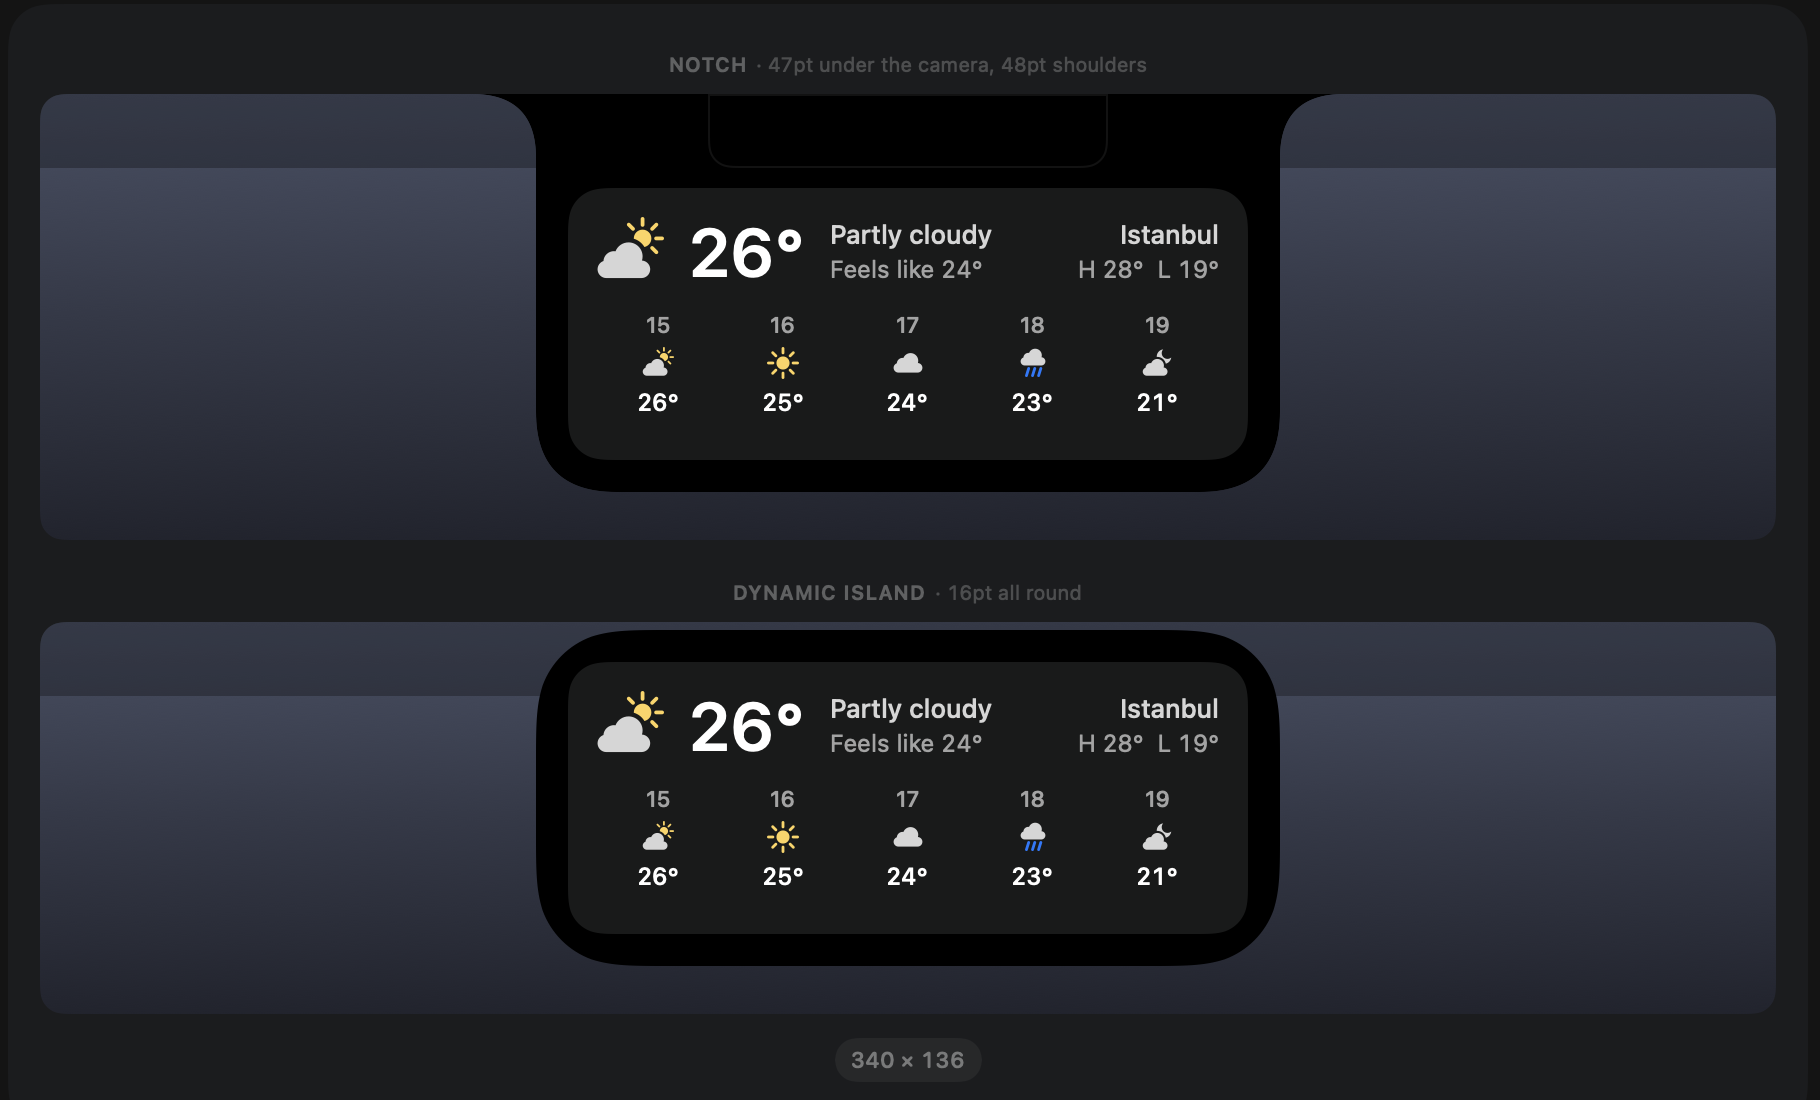
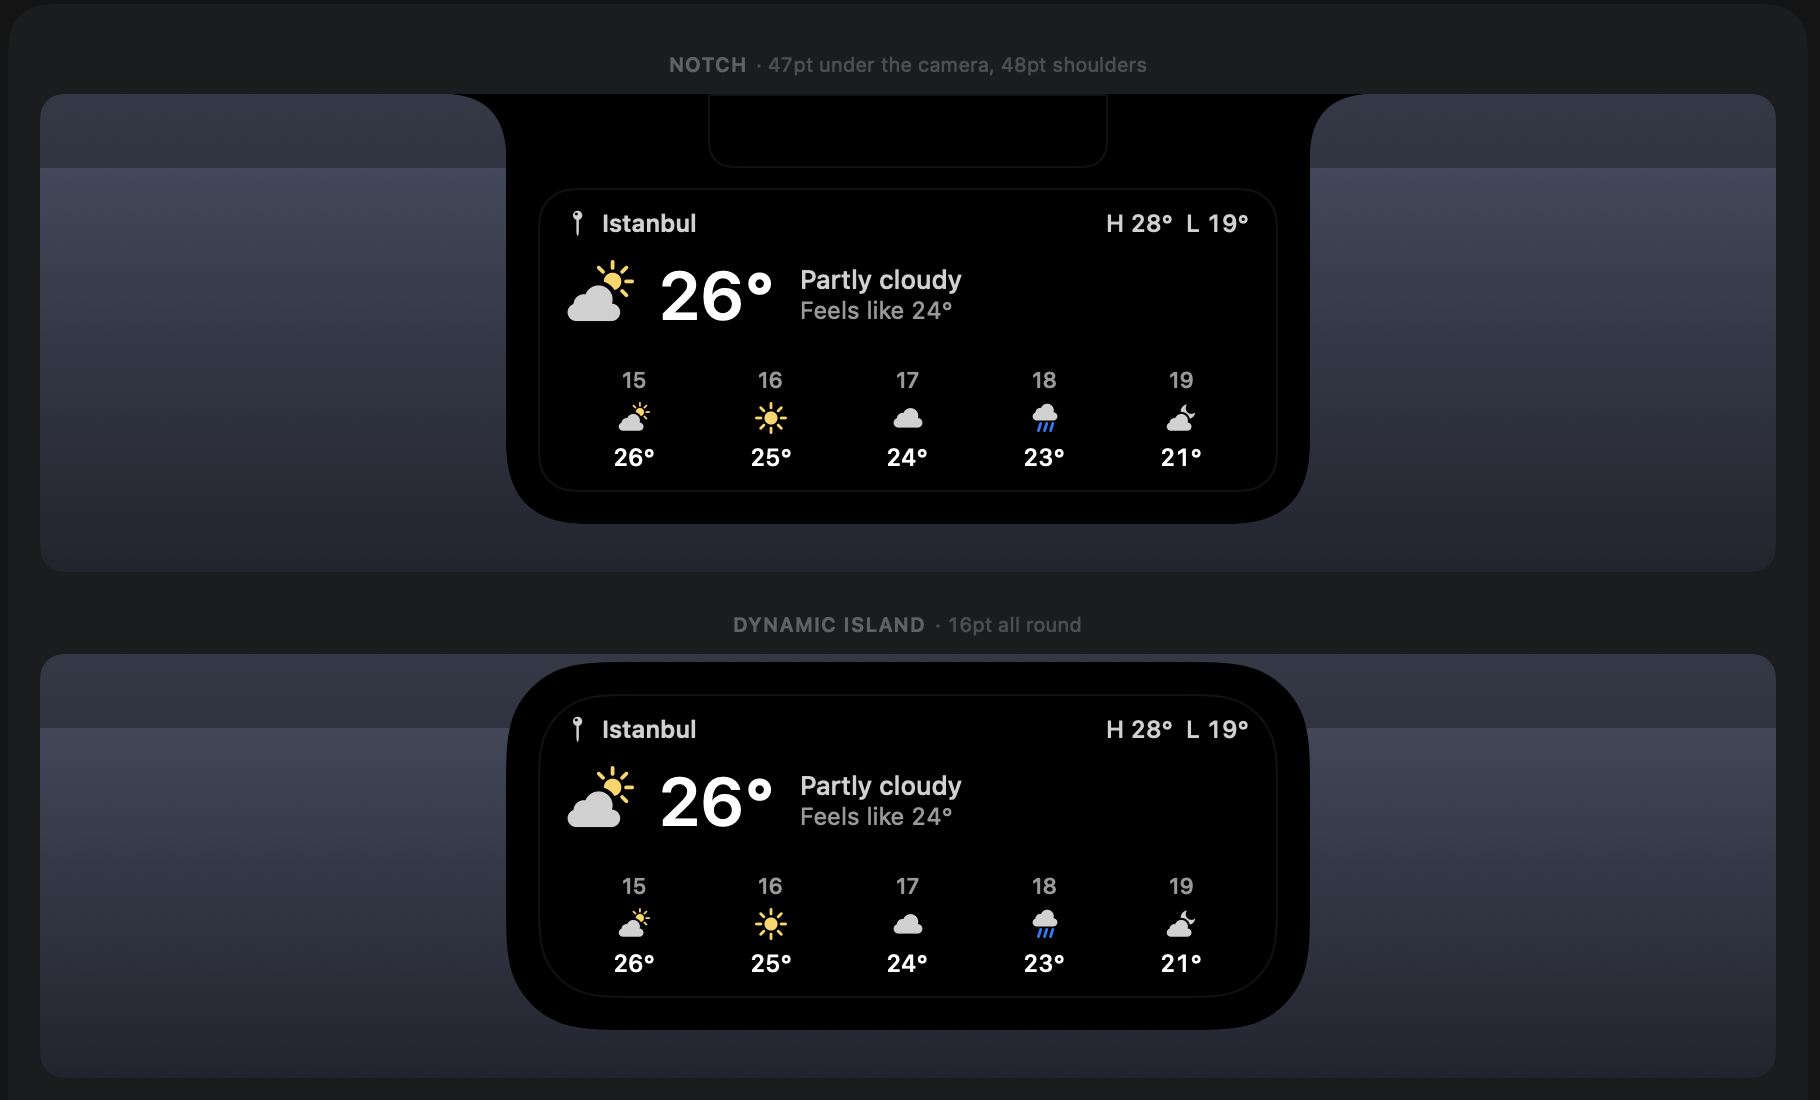
Lay the shelf widget out the way Droppy's own are
DroppyKit 1.4 writes down the layout Droppy's widgets share, and the host
stretches a solo card declared narrower than 352 points on a notch and 370
as an island. The widget now declares 370 by 152, opens with the header row
every Droppy widget has (a pin and the city, today's high and low trailing),
keeps its gaps to the spacing tokens, and beside another widget ends in two
rows with the label leading and the number trailing.

The SDK and the package pin move to 1.4.1; no API the droplet calls changed,
so kit.minAPI stays 1.1.0. The version is 1.0.1.

Changed region(s): [[0.0, 0.5255, 0.9846, 0.9891], [0.2462, 0.0618, 0.7385, 0.4945]]

diff --git a/Sources/OriWeather/Shelf.swift b/Sources/OriWeather/Shelf.swift
@@ -65,16 +65,44 @@ struct WeatherWidget: View {
     }
 }
 
-/// Alone on the shelf: the reading across the top (the mark and the degrees
-/// large, the condition and what it feels like beside them, the city and
-/// today's high and low on the right) and the hours ahead under it. No age on
-/// a fresh reading; a stale one says its age where the condition was.
+/// The header every Droppy widget opens with: a 12 pt symbol and a 12 pt
+/// title in the secondary white, here the city, with today's high and low as
+/// the trailing number when there is room for them.
+private struct WeatherHeader: View {
+    let glance: Glance
+    let showsHighLow: Bool
+    @Environment(\.weatherInk) private var ink
+
+    var body: some View {
+        HStack(spacing: DroppySpacing.xsm) {
+            Image(systemName: "mappin")
+                .font(.system(size: DroppyLiveActivityMetrics.labelFontSize, weight: .medium))
+                .accessibilityHidden(true)
+            Text(verbatim: glance.city.name)
+                .font(.system(size: DroppyLiveActivityMetrics.labelFontSize, weight: .semibold))
+            Spacer(minLength: DroppySpacing.md)
+            if showsHighLow, let highLow = glance.highLow {
+                Text(verbatim: highLow)
+                    .font(.system(size: DroppyLiveActivityMetrics.labelFontSize, weight: .medium))
+                    .monospacedDigit()
+            }
+        }
+        .lineLimit(1)
+        .foregroundStyle(ink.secondary)
+    }
+}
+
+/// Alone on the shelf: the header, the reading (the mark and the degrees
+/// large, the condition and what it feels like beside them) and the hours
+/// ahead under it. A fresh reading carries no age; a stale one says its age
+/// where the condition was.
 private struct SoloWeather: View {
     let glance: Glance
     @Environment(\.weatherInk) private var ink
 
     var body: some View {
-        VStack(alignment: .leading, spacing: DroppySpacing.smd) {
+        VStack(alignment: .leading, spacing: DroppySpacing.sm) {
+            WeatherHeader(glance: glance, showsHighLow: true)
             HStack(alignment: .center, spacing: DroppySpacing.md) {
                 WeatherMark(code: glance.reading.code, isDay: glance.reading.isDay)
                     .frame(width: Look.shelfMark, height: Look.shelfMark)
@@ -84,7 +112,7 @@ private struct SoloWeather: View {
                     .monospacedDigit()
                     .foregroundStyle(ink.primary)
                     .fixedSize()
-                VStack(alignment: .leading, spacing: DroppySpacing.xs / 2) {
+                VStack(alignment: .leading, spacing: 0) {
                     Text(verbatim: glance.detail)
                         .font(.system(size: Look.shelfLabel, weight: .medium))
                         .foregroundStyle(ink.secondary)
@@ -93,25 +121,13 @@ private struct SoloWeather: View {
                         .monospacedDigit()
                         .foregroundStyle(ink.tertiary)
                 }
-                .layoutPriority(1)
-                Spacer(minLength: DroppySpacing.sm)
-                VStack(alignment: .trailing, spacing: DroppySpacing.xs / 2) {
-                    Text(verbatim: glance.city.name)
-                        .font(.system(size: Look.shelfLabel, weight: .medium))
-                        .foregroundStyle(ink.secondary)
-                    if let highLow = glance.highLow {
-                        Text(verbatim: highLow)
-                            .font(.system(size: DroppyLiveActivityMetrics.labelFontSize))
-                            .monospacedDigit()
-                            .foregroundStyle(ink.tertiary)
-                    }
-                }
+                .lineLimit(1)
+                Spacer(minLength: 0)
             }
-            .lineLimit(1)
             if !glance.hours.isEmpty {
+                Spacer(minLength: 0)
                 HourStrip(hours: glance.hours)
             }
-            Spacer(minLength: 0)
         }
         .opacity(glance.isStale ? Look.staleOpacity : 1)
         .accessibilityElement(children: .combine)
@@ -145,15 +161,17 @@ private struct HourStrip: View {
     }
 }
 
-/// Beside another widget: the mark and the degrees, the condition under them,
-/// and at the foot the city and today's high and low when the slot is tall
-/// enough for them.
+/// Beside another widget: the header, the mark and the degrees, the
+/// condition, and two rows with the label leading and the number trailing:
+/// what it feels like, and today's high and low.
 private struct PairedWeather: View {
     let glance: Glance
     @Environment(\.weatherInk) private var ink
 
     var body: some View {
         VStack(alignment: .leading, spacing: DroppySpacing.xs) {
+            WeatherHeader(glance: glance, showsHighLow: false)
+                .padding(.bottom, DroppySpacing.xs)
             HStack(spacing: DroppySpacing.sm) {
                 WeatherMark(code: glance.reading.code, isDay: glance.reading.isDay)
                     .frame(width: Look.pairedMark, height: Look.pairedMark)
@@ -167,23 +185,25 @@ private struct PairedWeather: View {
                 .font(.system(size: DroppyLiveActivityMetrics.labelFontSize, weight: .medium))
                 .foregroundStyle(ink.secondary)
             Spacer(minLength: 0)
-            ViewThatFits(in: .vertical) {
-                VStack(alignment: .leading, spacing: DroppySpacing.xs / 2) {
-                    Text(verbatim: glance.city.name)
-                        .font(.system(size: DroppyLiveActivityMetrics.labelFontSize, weight: .medium))
-                        .foregroundStyle(ink.secondary)
-                    if let highLow = glance.highLow {
-                        Text(verbatim: highLow)
-                            .font(.system(size: DroppyLiveActivityMetrics.labelFontSize))
-                            .monospacedDigit()
-                            .foregroundStyle(ink.tertiary)
-                    }
-                }
-                EmptyView()
+            row("Feels like", glance.feelsLike)
+            if let high = glance.high, let low = glance.low {
+                row("High / low", "\(high) / \(low)")
             }
         }
         .lineLimit(1)
         .opacity(glance.isStale ? Look.staleOpacity : 1)
         .accessibilityElement(children: .combine)
+    }
+
+    private func row(_ label: String, _ value: String) -> some View {
+        HStack {
+            Text(verbatim: label)
+                .foregroundStyle(ink.tertiary)
+            Spacer(minLength: DroppySpacing.md)
+            Text(verbatim: value)
+                .monospacedDigit()
+                .foregroundStyle(ink.primary)
+        }
+        .font(.system(size: DroppyLiveActivityMetrics.labelFontSize, weight: .medium))
     }
 }

diff --git a/Tests/OriWeatherTests/DropletTests.swift b/Tests/OriWeatherTests/DropletTests.swift
@@ -232,6 +232,18 @@ final class ShelfClockTests: XCTestCase {
         droplet.deactivate()
     }
 
+    /// Droppy never hands a solo card less than its floor (352 on a notch,
+    /// 370 as an island), and a narrower declaration is stretched to it; the
+    /// widget declares at least the floor and a height inside the host's range.
+    func testTheWidgetDeclaresNumbersTheHostHonours() throws {
+        let traits = OriWeatherDroplet().widgetDescriptors[0].layoutTraits
+        let solo = try XCTUnwrap(traits.preferredSoloWidth)
+        XCTAssertGreaterThanOrEqual(solo, DroppyShellMetrics.shelfMinimumSoloCardWidth(usesNotchStyle: true))
+        XCTAssertGreaterThanOrEqual(solo, DroppyShellMetrics.shelfMinimumSoloCardWidth(usesNotchStyle: false))
+        guard case .fixed(let height) = traits.contentHeight else { return XCTFail("the height is fixed") }
+        XCTAssertTrue(DroppyShellMetrics.shelfWidgetFixedContentHeightRange.contains(height))
+    }
+
     func testTheWidgetDeclaresBothWidthsAndTheIdThePillOpens() {
         let droplet = OriWeatherDroplet()
         let descriptor = droplet.widgetDescriptors[0]

diff --git a/Sources/OriWeather/Look.swift b/Sources/OriWeather/Look.swift
@@ -29,10 +29,13 @@ enum Look {
 
     /// The widget's two widths. Both are required: the host refuses a
     /// descriptor that leaves either to a fallback.
-    static let shelfSoloWidth: CGFloat = 340
+    /// The solo width is the floor Droppy 15.3 hands a solo card as an island
+    /// (352 on a notch), so the widget is laid out at the width it gets.
+    static let shelfSoloWidth: CGFloat = 370
     static let shelfPairedWidth: CGFloat = 170
-    /// The widget's height: the reading and, under it, the hours ahead.
-    static let shelfHeight: CGFloat = 136
+    /// The widget's height: the header, the reading and the hours ahead,
+    /// and nothing more.
+    static let shelfHeight: CGFloat = 152
     /// Alone on the shelf: the mark and the degrees large enough to read
     /// from across the desk.
     static let shelfMark: CGFloat = 34

diff --git a/Sources/OriWeather/OriWeatherDroplet.swift b/Sources/OriWeather/OriWeatherDroplet.swift
@@ -33,6 +33,10 @@ struct Glance: Equatable {
     var condition: String { reading.condition }
     /// The condition, or how old the reading is once it has stopped arriving.
     var detail: String { isStale ? Ago.words(reading.at, at: now) : reading.condition }
+    /// Today's high and low on their own, where the reading carried them.
+    var high: String? { reading.high.map { WeatherReading.figure($0, in: unit) } }
+    var low: String? { reading.low.map { WeatherReading.figure($0, in: unit) } }
+
     /// Today's high and low, "H 28°  L 19°", where the reading carried them.
     var highLow: String? {
         guard let high = reading.high, let low = reading.low else { return nil }

diff --git a/docs/notes.md b/docs/notes.md
@@ -346,3 +346,34 @@ condition, and the city with the high and low at the foot. It is 136 tall now.
 
 The maker is "Ori by realmeric" and the name is "OriWeather", one word, the
 way every Ori droplet is named.
+
+## DroppyKit 1.4.1, and the widget laid out like Droppy's (2026-09-11)
+
+DroppyKit went from 1.2.1 to 1.4.1 with the same ABI and the same Droppy 15.3,
+and no API this droplet calls changed, so `kit.minAPI` stays 1.1.0. What
+changed is what the host and the guides say about widgets. Since 1.3.0 the
+host honours a fixed height (48 to 480) and never hands a solo card less than
+352 points on a notch or 370 as an island, stretching anything declared
+narrower; since 1.3.1 it paints nothing behind a widget; 1.4.0 writes down the
+layout every Droppy widget shares: fill the rectangle, one 14 point padding,
+leading text and trailing numbers, a header row of a 12 point symbol and a 12
+point title in the secondary white, spacing only in the tokens, no unused
+space. The widget declared 340 wide, had no header and two 2 point gaps. It now
+declares 370 by 152, opens with a pin and the city (today's high and low
+trailing, alone), and beside another widget ends in two label-and-number rows,
+"Feels like" and "High / low". The SDK checkout was on the v1.2.1 tag, so
+`droppykit update`'s fast-forward pull could not run; the checkout was moved to
+the v1.4.1 tag and the package pin with `swift package update droppykit`.
+
+`make energy` after it did not pass, and did not show a regression either.
+Three runs with Meric at the keyboard: one with the machine 21% busy and the
+seat flipping three times (caps lock, the pointer), one with 22%, and one
+quiet run where CPU was the same with and without the droplet (0.412% against
+0.410%) and wakeups rose by 0.7 a second seated and 1.0 unseated, where the
+unseated run starts no timer at all. Today's quiet baselines alone have ranged
+from 0.67 to 2.1 wakeups a second, and the Playground had moved to 1.0.12.
+Nothing that runs while the weather is on the wings changed in this round.
+It is written down as unproven, to be measured again on an idle Mac.
+
+The version is 1.0.1: the Store compares versions to decide who needs an
+update, and the guide says to raise it on every submission.

diff --git a/docs/energy/2026-09-11.md b/docs/energy/2026-09-11.md
@@ -1,15 +1,15 @@
 # Energy, 2026-09-11
 
-Droppy Playground 1.0.11,
+Droppy Playground 1.0.12,
 macOS 26.6.2, the `DroppyPlayground` process only,
 60 samples a second apart per run after 20 s to settle, and the machine was otherwise quiet.
 The pointer was not parked; wherever it was, it was there for all three runs.
 
 | Run | Idle CPU (%) | Idle wakeups (a second) | POWER | Seat | Clock started | Against removed |
 |---|---|---|---|---|---|---|
-| removed | 0.363 | 2.067 | 0.462 | | | baseline |
-| seated (OW_DEMO=1, pinned) | 0.330 | 1.933 | 0.427 | compact | 2 | pass |
-| unseated (OW_DEMO=1, unpinned) | 0.320 | 1.883 | 0.422 | none logged | 0 | pass |
+| removed | 0.428 | 2.017 | 0.517 | | | baseline |
+| seated (OW_DEMO=1, pinned) | 1.165 | 5.550 | 1.425 | compact | 1 | fail |
+| unseated (OW_DEMO=1, unpinned) | 0.415 | 1.467 | 0.488 | none logged | 0 | pass |
 
 The line: a run with the droplet in it may wake the Playground at most
 max(0.5, 0.2 of the baseline) a second more than the removed run, and
